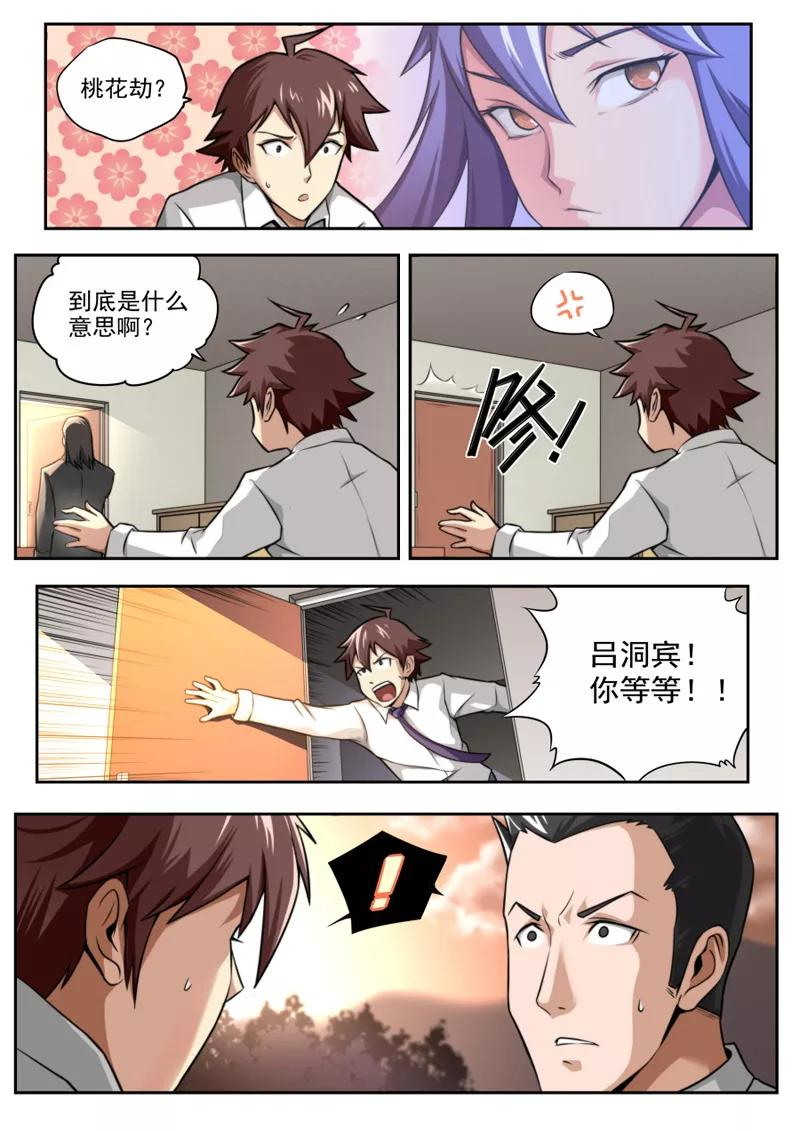
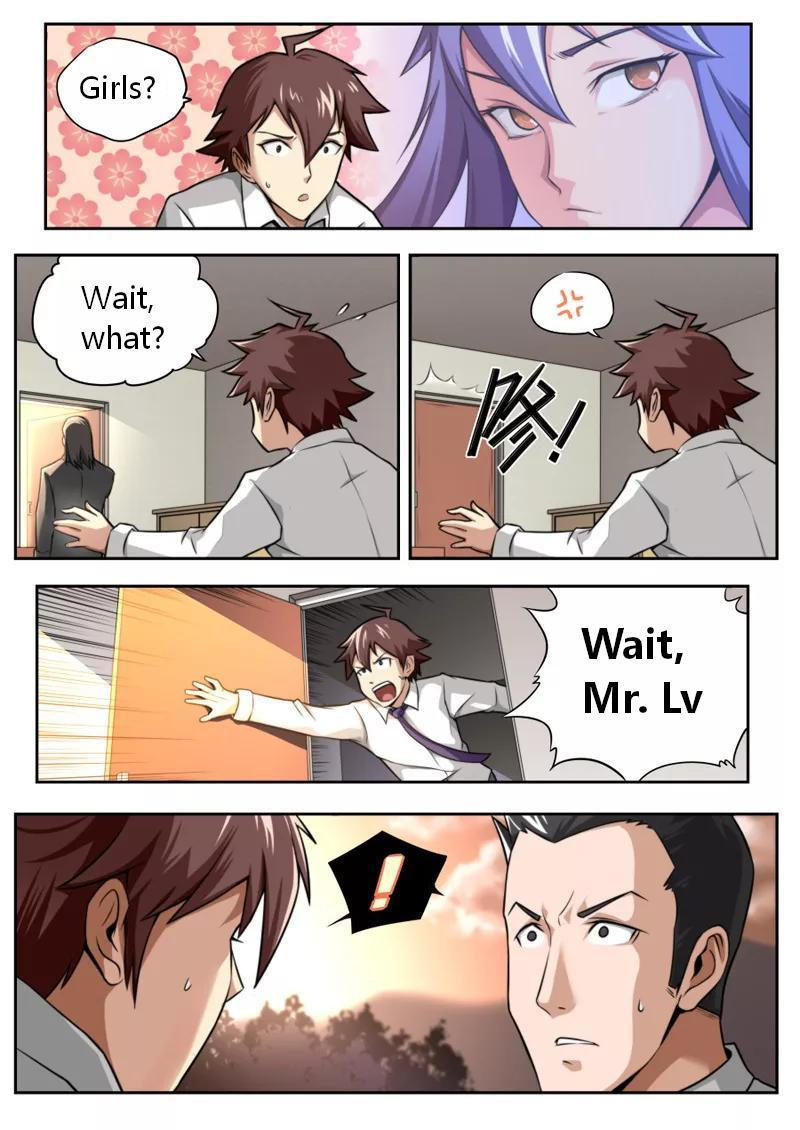
God At Random Chapter 12

diff --git a/12431/README.md b/12431/README.md
@@ -13,7 +13,7 @@
 - [Chapter 9 (translated)](./9/README.md)
 - [Chapter 10 (translated)](./10/README.md)
 - [Chapter 11 (translated)](./11/README.md)
-- [Chapter 12](./12/README.md)
+- [Chapter 12 (translated)](./12/README.md)
 - [Chapter 13](./13/README.md)
 - [Chapter 14](./14/README.md)
 - [Chapter 15](./15/README.md)
